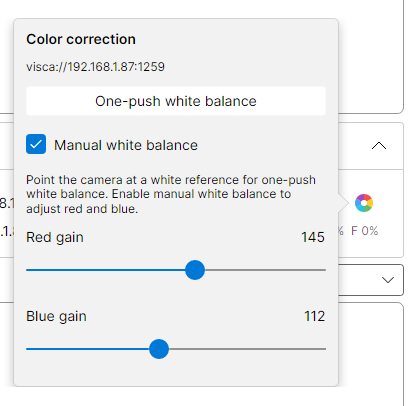
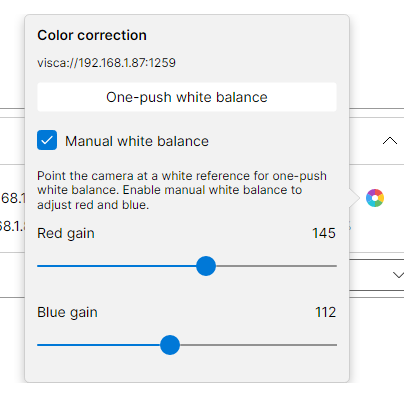
Refresh color correction screenshots and simplify the guide

diff --git a/docs/CameraCompatibility.md b/docs/CameraCompatibility.md
@@ -1,34 +1,9 @@
 # Camera compatibility
 
-Which cameras have been driven by this application, and how far the driving went. A camera absent
-from this page is not known to be broken, only untested. Add a row when you have one in front of
-you, and say what you actually exercised rather than what you expect to work.
+Unlisted cameras are not necessarily incompatible.
 
 ## Verified on hardware
 
 | Camera | `type` | `tallyMode` | Exercised |
 | --- | --- | --- | --- |
 | [CineTreak CT-PT31K](https://cinetreak.com/product/ct-pt31k/) | `viscaoverip` | `avonic` | pan, tilt, zoom, focus, tally |
-
-## Color correction
-
-Color correction is unverified on the CT-PT31K. Its
-[manual](https://cinetreak.com/download/ct-pt31k-user-manual/) lists automatic, manual and one-push
-white balance. See [color correction](ColorCorrection.md) for support detection and controls.
-
-## Implemented from documentation, no camera seen
-
-The `Websocket.PtzLanc` and `Signalr.PtzLanc` types drive homegrown LANC hardware rather than a
-camera off a shelf, so they are out of scope here. What is left is the VISCA tally payloads.
-
-| Payload | Documented by | Notes |
-| --- | --- | --- |
-| `tallyMode: avonic` | [Avonic CM7x support article](https://support.avonic.com/support/solutions/articles/80001153827-visca) | the same three packets the CT-PT31K answers to |
-| `tallyMode: ptzoptics` | [PTZOptics VISCA over IP commands](https://f.hubspotusercontent20.net/hubfs/418770/PTZOptics%20Documentation/Misc/PTZOptics%20VISCA%20over%20IP%20Commands.pdf) | one lamp, so preview leaves it dark |
-| White balance and red/blue gain | [Avonic VISCA command and inquiry list](https://support.avonic.com/support/solutions/articles/80001153827-visca) | mode `35`, one-push trigger `10 05`, direct gains `43` and `44`, range `00` to `FF` |
-
-Sony's own cameras have no `tallyMode`. Per the
-[Sony VISCA command list v4](https://pro.sony/s3/2022/09/03065933/VISCA_Command_List_v4.pdf), Sony
-spends a command per lamp, `8x 01 7E 01 0A 00 0p FF` for red and `8x 01 7E 04 1A 00 0p FF` for
-green, and puts out a lamp that is not told to stay lit every 15 seconds. The re-send that would keep
-it lit was not built without a camera to check it against.

diff --git a/docs/ColorCorrection.md b/docs/ColorCorrection.md
@@ -1,7 +1,7 @@
 # VISCA color correction
 
 Adjust a camera's white balance from the Cameras pane without changing the configuration.
-The screenshots show the actual application with simulated camera data, not a hardware test.
+The screenshots show the application with simulated camera data.
 
 ## Supported cameras
 
@@ -12,7 +12,9 @@ The application checks support by reading white-balance mode, red gain and blue 
 The color-wheel button appears only after all three inquiries return valid settings.
 The LANC camera types do not offer these controls.
 
-See [camera compatibility](CameraCompatibility.md) for protocol sources and hardware verification.
+See [camera compatibility](CameraCompatibility.md) for tested cameras and the
+[VISCA command reference](https://support.avonic.com/support/solutions/articles/80001153827-visca)
+for white-balance and gain commands.
 
 ## Open the popover
 
@@ -54,10 +56,6 @@ application reads current settings without replaying the action. Controls are di
 readback; gain sliders require manual white balance.
 These settings belong to the camera, not the configuration file. Whether they survive a camera
 restart depends on the camera.
-
-The popover follows the application's light or dark theme.
-
-![The same camera-correction popover in the dark theme](images/camera-color-popover-dark.png)
 
 ## If controls are missing or unavailable
 
